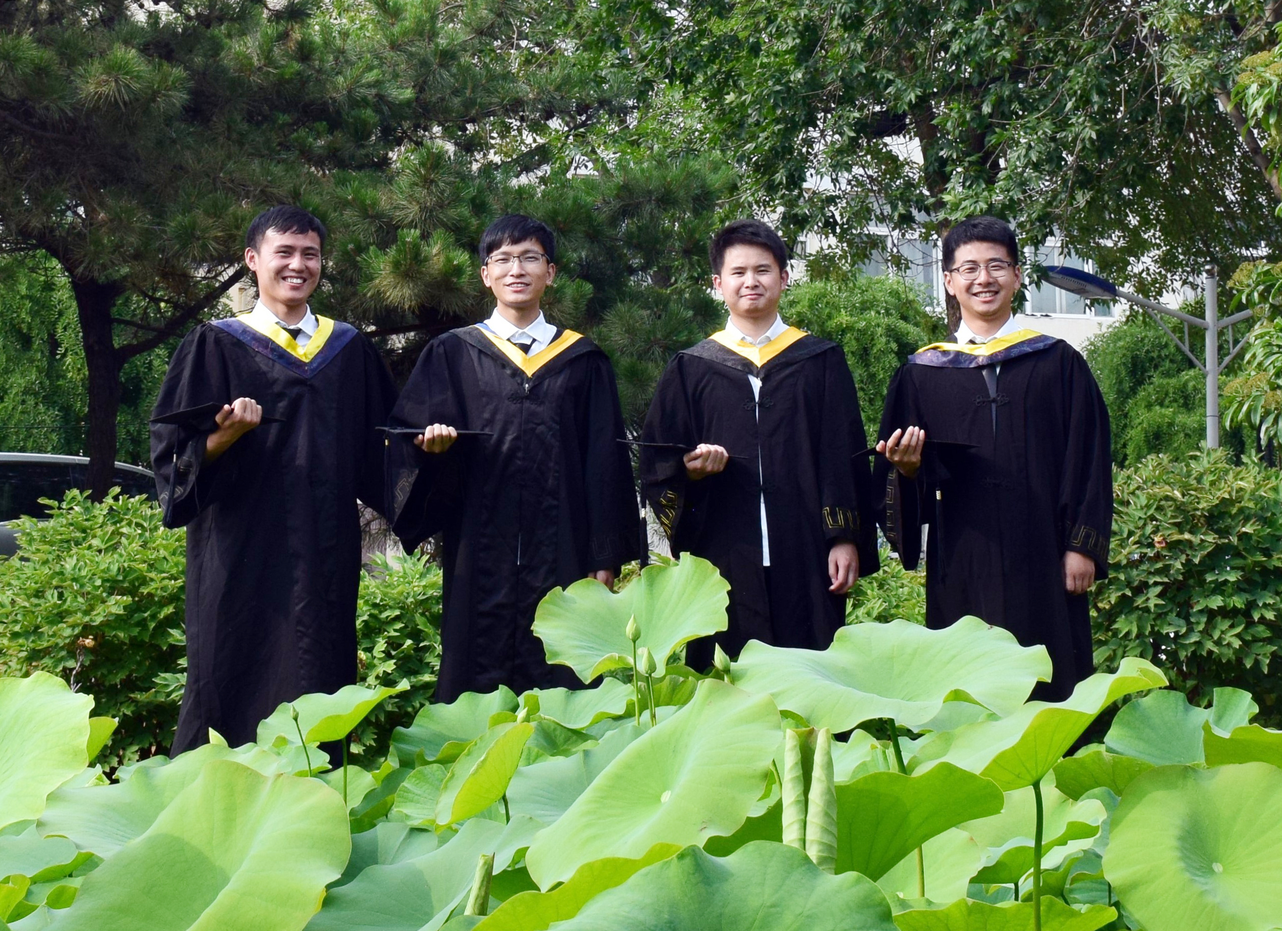
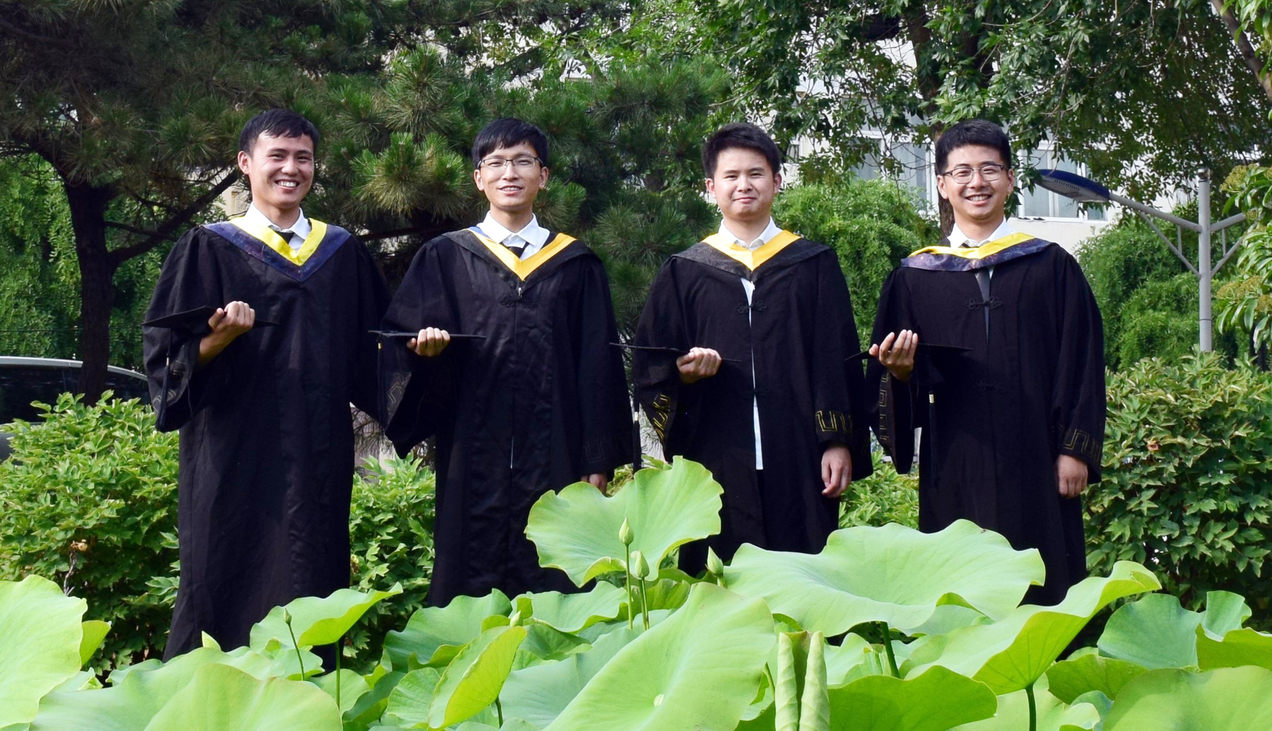
Site updated: 2018-12-31 19:52:38

diff --git a/2018/12/31/写在2018年末/index.html b/2018/12/31/写在2018年末/index.html
@@ -60,8 +60,11 @@
 <p><img src="/me/2018/12/31/写在2018年末/IMG_0100.jpg" alt="lake"></p>
 <p>4月份的时候，回到了学校，准备论文答辩与毕业。那段时光真的是最轻松的了。回到学校之后，和广栋一起去青岛找庆贺。到青岛的时间是晚上9点多，到了住处已经将近11点了。闭着眼睛和庆贺聊代码，聊项目，竟然聊到了两点多。</p>
 <p><img src="/me/2018/12/31/写在2018年末/IMG_3254.JPG?imageMogr2/auto-orient/strip%7CimageView2/2/w/600" alt="lake"></p>
-<p>从青岛回到学校，开始写毕业论文。毕业论文的节奏一直都是不停的改。期间掺杂着各种玩。骑车去天平湖、晚上操场上打游戏、</p>
+<p>从青岛回到学校，开始写毕业论文。毕业论文的节奏一直都是不停的改。期间掺杂着各种玩。骑车去天平湖、晚上操场上打游戏、各种喝酒。</p>
 <p><img src="/me/2018/12/31/写在2018年末/IMG_3268.JPG" alt="lake"></p>
+<p>当然，还有毕业照～～</p>
+<p><img src="/me/2018/12/31/写在2018年末/IMG_0519.JPG" alt="lake"><br><img src="/me/2018/12/31/写在2018年末/IMG_0536.jpg" alt="lake"></p>
+<hr>
 
             <!--[if lt IE 9]><script>document.createElement('audio');</script><![endif]-->
             <audio id="audio" loop="1" preload="auto" controls="controls" data-autoplay="false">
